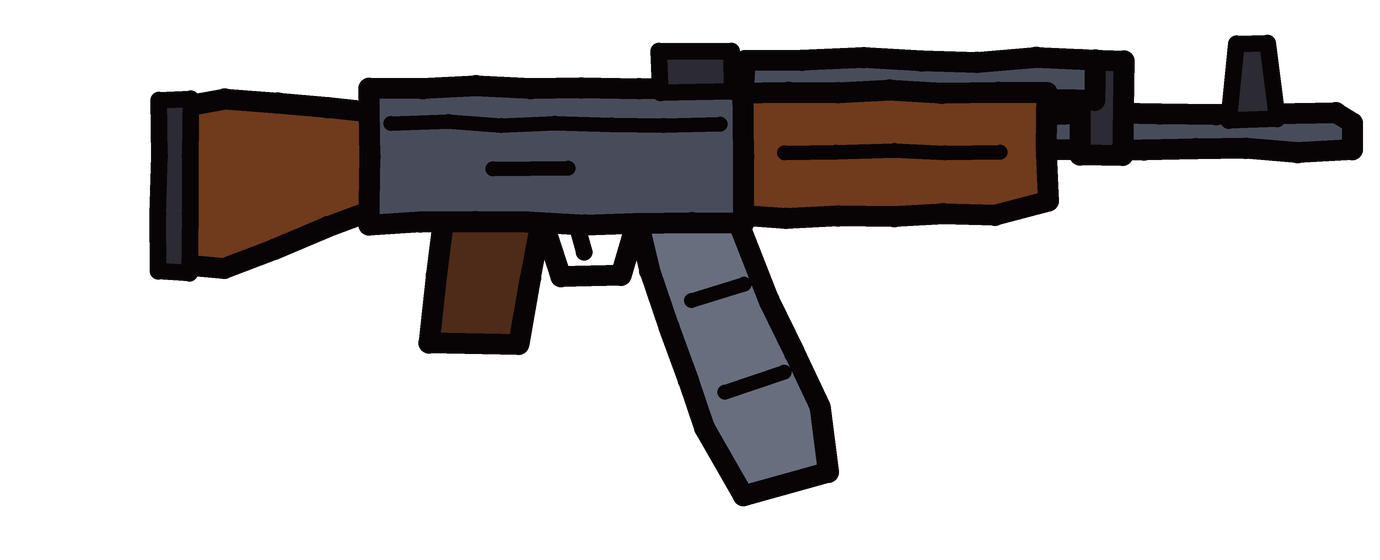
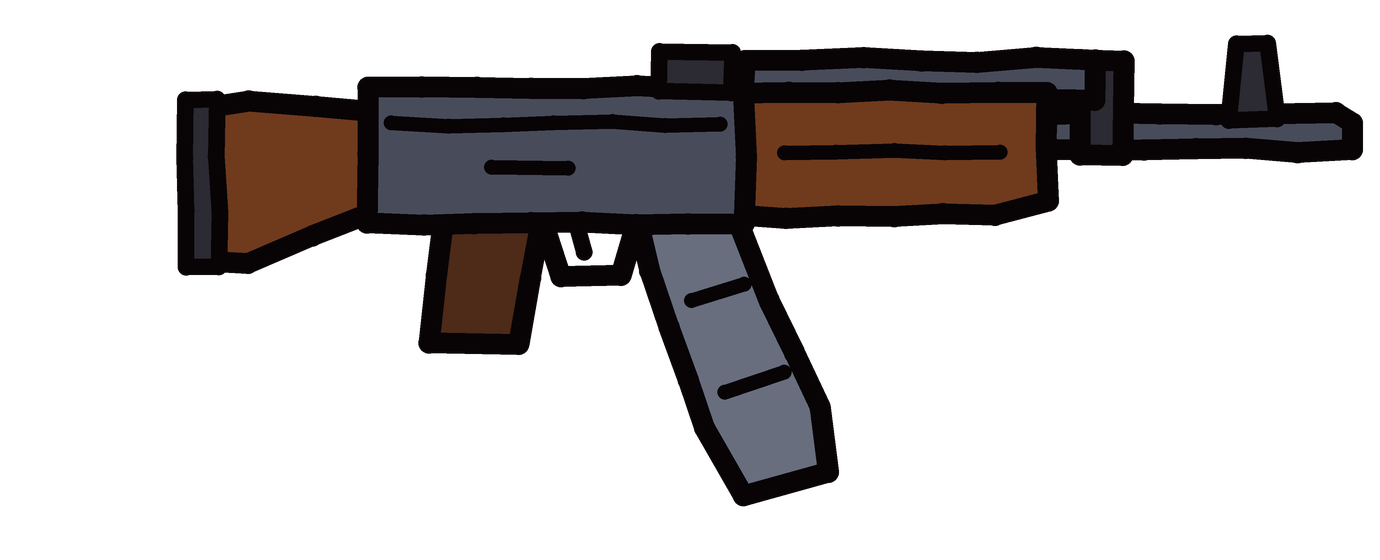
Holds, round four; faces: confused's last row; README lists the 32 expressions

diff --git a/README.md b/README.md
@@ -37,7 +37,7 @@ The game opens on a title screen: **NEW GAME**, **CONTINUE** and **SETTINGS**. P
 | Right mouse button, or Ctrl (hold) | Point it. He turns side-on, towards the side of the screen the mouse is on (with Ctrl, the way he is already facing). Walking towards the camera or away from it he lowers it again |
 | E | Use whatever is nearest and in reach: talk to someone, open or close a door, go up or down stairs, step up to the microphone in the studio's booth, try clothes at a rack in the clothing store, sleep in his bed. Its name shows over it. A doorway can only be walked through while its door is open |
 | 1 to 8 | Swap the lead between the character options (A to H). It starts on 5 (E), the only one with a walk cycle and loose face parts |
-| Z / X | Previous / next expression (neutral, happy, grin, laugh, wink, calm, preachy, focused, angry, shout, sad, nervous, cringe, shocked, suspicious, side_eye, smug, bored) |
+| Z / X | Previous / next expression (neutral, happy, grin, laugh, wink, calm, preachy, focused, angry, shout, sad, nervous, cringe, shocked, suspicious, side_eye, smug, bored, scared, crying, hurt, disgusted, confused, embarrassed, guilty, pleading, dizzy, love, furious, innocent, sleepy, sly) |
 | Space (hold) | Move his mouth. If he has his back to you he turns round first |
 | F | Close-up on / off (head to waist) |
 | Tab | Next camera (follow, angle, angle_left, front, console, left, lounge, booth, top). In the studio only |
@@ -118,7 +118,7 @@ The names `TATTLETALE` and `LARGE FRY` are working names, and the lines in `asse
 - `scripts/wanderer.gd` walks a character about the floor on its own.
 - `scripts/talk_box.gd` is the conversation box and runs a conversation from a table like `assets/data/talk_fry.json`: a node is either a list of things the player can say, or one line someone says. The format is at the top of the script. Text is in Bungee (`assets/fonts/`, with its licence, the SIL Open Font License; the font has capitals only).
 - `shaders/paper_card.gdshader` moves the limbs inside a drawing without redrawing it: each leg is its own layer that can lift and swing, and each arm bends round its shoulder. The walk cycle in `paper_actor.gd` (`_pose`) only sets its numbers.
-- `scripts/paper_face.gd` is the loose face: eyes, brows, mustache, goatee and mouth as small cards on the body card. It holds the expression table, blinks on its own, and flaps the mouth while `talking` is true. To add an expression, add a row to `EXPRESSIONS`: an eye drawing (or a different one per eye), a mouth, a brow, and where each brow sits. On the side profile it shows one eye, one brow and the profile version of the mouth (`parts/side_*.png`). The parts lie exactly on the body card and `shaders/paper_face.gdshader` draws them over it, so they cannot slide against the drawing when the camera is off to one side; a profile mouth runs under the head outline and the shader shows it only over skin, so the outline cuts it off cleanly.
+- `scripts/paper_face.gd` is the loose face: eyes, brows, mustache, goatee and mouth as small cards on the body card. It holds the expression table, blinks on its own, and flaps the mouth while `talking` is true. To add an expression, add a row to `EXPRESSIONS`: an eye drawing (or a different one per eye), a mouth, a brow, and where each brow sits; optionally `"fx"`, the extras it shows (a sweat drop, tears, a blush, an anger mark: the `FX` table), and `"talk"`, which set of mouths it talks with (plain, happy, angry, sad, scared, sly). The parts themselves are drawn in code by `face_parts.py` in the art folder's `tools/`. On the side profile it shows one eye, one brow and the profile version of the mouth (`parts/side_*.png`). The parts lie exactly on the body card and `shaders/paper_face.gdshader` draws them over it, so they cannot slide against the drawing when the camera is off to one side; eyes, brows, mouth, tears and blush are shown only over bare skin in every view, so a lifted brow goes under a hat and a profile mouth is cut off cleanly by the head outline.
 - `assets/characters/e/` is the lead and `assets/characters/fry/` the second character: a drawing per view, `limbs*.png` (which pixels are arm), `legs*.png` (which leg each pixel below the hip belongs to), `parts/*.png` and `rig.json` (where everything sits, in pixels of the body drawing). They are written by two scripts, `build_lead.py` and `build_fry.py`, from the original drawings. Those scripts and drawings are not in this repository (in the full Tattletale working folder they are in `../artifacts/flat-pivot-20261112/tools/`): change the numbers there and run them again (lead first), then `python tools/shot.py --import`. Fry wears shades and a cap, so the only loose face part he shows is the mouth. The side-view mouths (`parts/side_*.png`) are made by `lead_views.profile_mouths`: each is cut to the inside of the head outline, and one that would touch the drawn mustache or goatee is moved up or made smaller until it does not. To check them without the game, paste each on the side drawing where `rig.json` puts it.
 - `assets/textures` are 256 px tiles and `assets/characters/option_*.png` are single cut-out drawings. Both were made outside this repository (in the full working folder: `../artifacts/flat-pivot-20261112/`, with the briefs in `briefs/`, the raw images, and `tools/process_art.py`, which keys out the green background and shrinks the textures).
 
